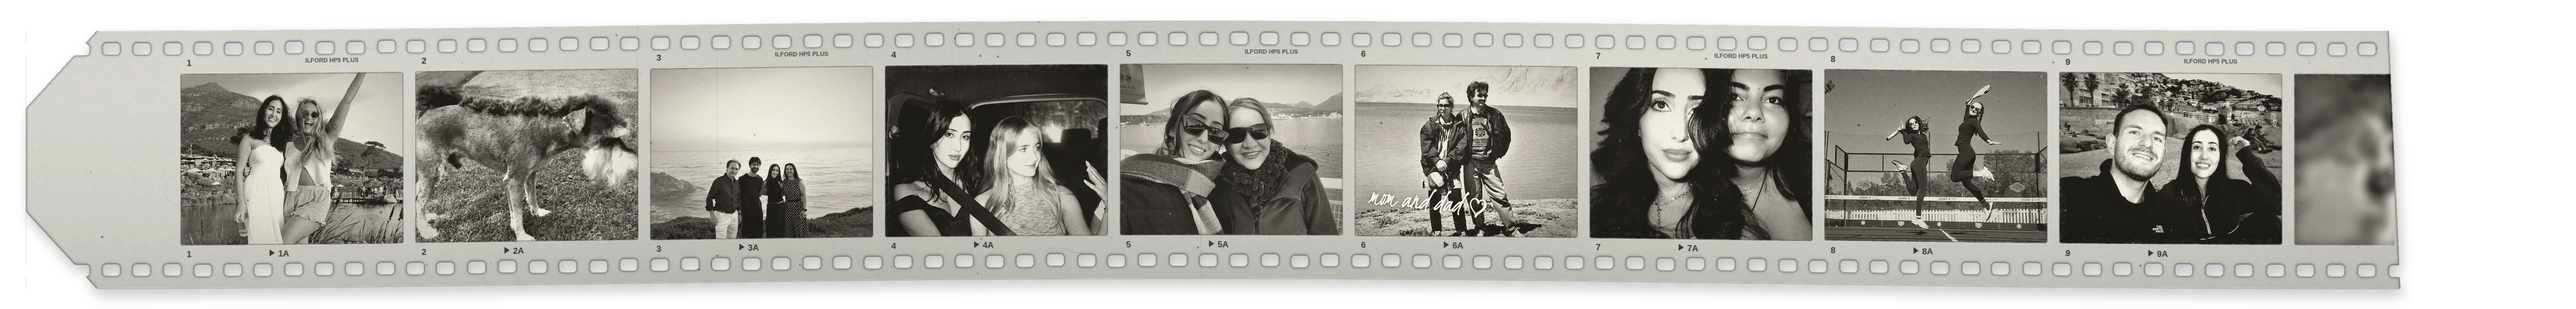
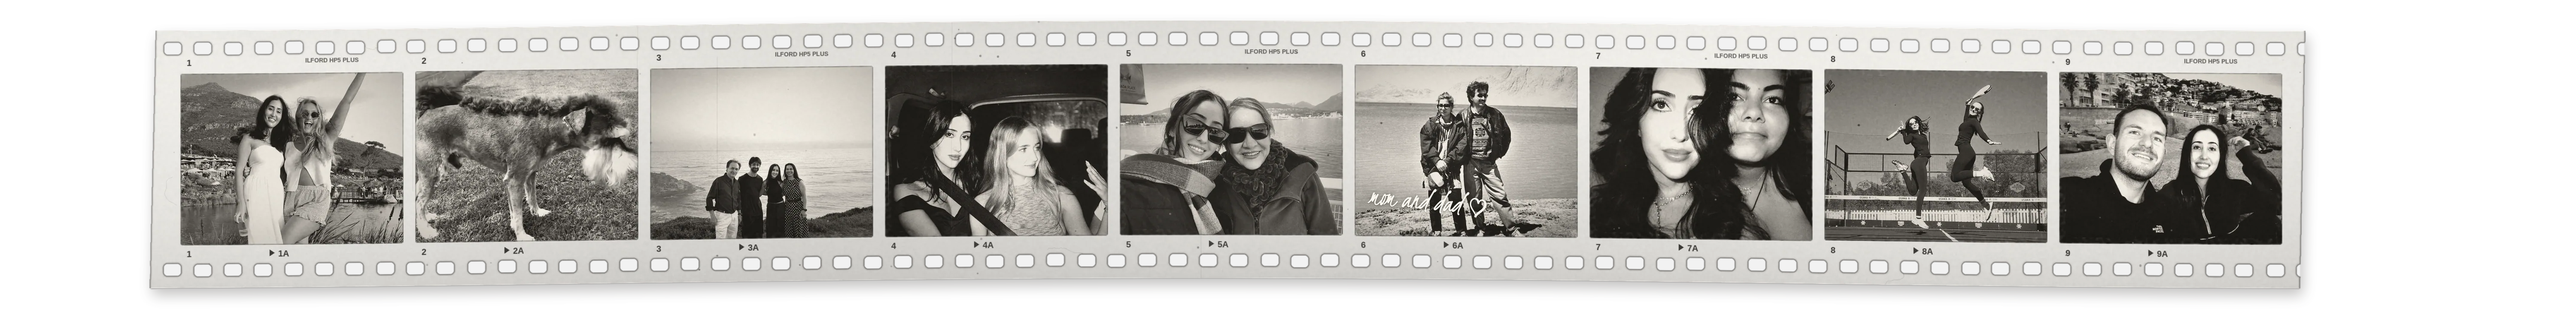
Contact sheet: straight-cut strip ends, clear gaps between strips, lighter realistic film base, white sprocket holes, smaller heading
Claude-Session: https://claude.ai/code/session_019cHY5kFv81n3dVZ9DcXyGk

diff --git a/things-i-love.html b/things-i-love.html
@@ -75,26 +75,26 @@
         <span class="fr" aria-hidden="true" style="left:79.93%;top:23.63%;width:8.67%;height:55.62%;--tilt:0.40deg"></span>
       </figure></div>
       <div class="rw"><figure class="crow" data-dir="-1"><img src="assets/img/n/sheet/row-b.webp" alt="" width="6000" height="721" decoding="async">
-        <span class="fr" aria-hidden="true" style="left:4.33%;top:22.26%;width:8.67%;height:55.62%;--tilt:-0.79deg"></span>
-        <span class="fr" aria-hidden="true" style="left:13.45%;top:21.27%;width:8.67%;height:55.62%;--tilt:-0.66deg"></span>
-        <span class="fr" aria-hidden="true" style="left:22.57%;top:20.63%;width:8.67%;height:55.62%;--tilt:-0.27deg"></span>
-        <span class="fr" aria-hidden="true" style="left:31.68%;top:20.59%;width:8.67%;height:55.62%;--tilt:0.22deg"></span>
-        <span class="fr" aria-hidden="true" style="left:40.80%;top:21.16%;width:8.67%;height:55.62%;--tilt:0.62deg"></span>
-        <span class="fr" aria-hidden="true" style="left:49.92%;top:22.14%;width:8.67%;height:55.62%;--tilt:0.79deg"></span>
-        <span class="fr" aria-hidden="true" style="left:59.03%;top:23.13%;width:8.67%;height:55.62%;--tilt:0.66deg"></span>
-        <span class="fr" aria-hidden="true" style="left:68.15%;top:23.76%;width:8.67%;height:55.62%;--tilt:0.27deg"></span>
-        <span class="fr" aria-hidden="true" style="left:77.27%;top:23.79%;width:8.67%;height:55.62%;--tilt:-0.22deg"></span>
+        <span class="fr" aria-hidden="true" style="left:5.00%;top:22.19%;width:8.67%;height:55.62%;--tilt:-0.79deg"></span>
+        <span class="fr" aria-hidden="true" style="left:14.12%;top:21.20%;width:8.67%;height:55.62%;--tilt:-0.64deg"></span>
+        <span class="fr" aria-hidden="true" style="left:23.23%;top:20.60%;width:8.67%;height:55.62%;--tilt:-0.24deg"></span>
+        <span class="fr" aria-hidden="true" style="left:32.35%;top:20.61%;width:8.67%;height:55.62%;--tilt:0.25deg"></span>
+        <span class="fr" aria-hidden="true" style="left:41.47%;top:21.23%;width:8.67%;height:55.62%;--tilt:0.65deg"></span>
+        <span class="fr" aria-hidden="true" style="left:50.58%;top:22.21%;width:8.67%;height:55.62%;--tilt:0.79deg"></span>
+        <span class="fr" aria-hidden="true" style="left:59.70%;top:23.19%;width:8.67%;height:55.62%;--tilt:0.64deg"></span>
+        <span class="fr" aria-hidden="true" style="left:68.82%;top:23.78%;width:8.67%;height:55.62%;--tilt:0.23deg"></span>
+        <span class="fr" aria-hidden="true" style="left:77.93%;top:23.77%;width:8.67%;height:55.62%;--tilt:-0.26deg"></span>
       </figure></div>
       <div class="rw"><figure class="crow" data-dir="1"><img src="assets/img/n/sheet/row-c.webp" alt="" width="6000" height="721" decoding="async">
-        <span class="fr" aria-hidden="true" style="left:11.83%;top:20.53%;width:8.67%;height:55.62%;--tilt:-0.08deg"></span>
-        <span class="fr" aria-hidden="true" style="left:20.95%;top:20.76%;width:8.67%;height:55.62%;--tilt:0.40deg"></span>
-        <span class="fr" aria-hidden="true" style="left:30.07%;top:21.53%;width:8.67%;height:55.62%;--tilt:0.73deg"></span>
-        <span class="fr" aria-hidden="true" style="left:39.18%;top:22.56%;width:8.67%;height:55.62%;--tilt:0.77deg"></span>
-        <span class="fr" aria-hidden="true" style="left:48.30%;top:23.45%;width:8.67%;height:55.62%;--tilt:0.52deg"></span>
-        <span class="fr" aria-hidden="true" style="left:57.42%;top:23.85%;width:8.67%;height:55.62%;--tilt:0.07deg"></span>
-        <span class="fr" aria-hidden="true" style="left:66.53%;top:23.62%;width:8.67%;height:55.62%;--tilt:-0.41deg"></span>
-        <span class="fr" aria-hidden="true" style="left:75.65%;top:22.84%;width:8.67%;height:55.62%;--tilt:-0.73deg"></span>
-        <span class="fr" aria-hidden="true" style="left:84.77%;top:21.81%;width:8.67%;height:55.62%;--tilt:-0.77deg"></span>
+        <span class="fr" aria-hidden="true" style="left:11.50%;top:20.54%;width:8.67%;height:55.62%;--tilt:-0.09deg"></span>
+        <span class="fr" aria-hidden="true" style="left:20.62%;top:20.74%;width:8.67%;height:55.62%;--tilt:0.39deg"></span>
+        <span class="fr" aria-hidden="true" style="left:29.73%;top:21.50%;width:8.67%;height:55.62%;--tilt:0.72deg"></span>
+        <span class="fr" aria-hidden="true" style="left:38.85%;top:22.52%;width:8.67%;height:55.62%;--tilt:0.78deg"></span>
+        <span class="fr" aria-hidden="true" style="left:47.97%;top:23.42%;width:8.67%;height:55.62%;--tilt:0.53deg"></span>
+        <span class="fr" aria-hidden="true" style="left:57.08%;top:23.85%;width:8.67%;height:55.62%;--tilt:0.09deg"></span>
+        <span class="fr" aria-hidden="true" style="left:66.20%;top:23.64%;width:8.67%;height:55.62%;--tilt:-0.39deg"></span>
+        <span class="fr" aria-hidden="true" style="left:75.32%;top:22.87%;width:8.67%;height:55.62%;--tilt:-0.72deg"></span>
+        <span class="fr" aria-hidden="true" style="left:84.43%;top:21.84%;width:8.67%;height:55.62%;--tilt:-0.78deg"></span>
       </figure></div>
     </div>
     </div>

diff --git a/assets/inner.css b/assets/inner.css
@@ -91,12 +91,12 @@ header a[aria-current]{background:none}
 .loves-list a{color:var(--red);text-decoration:underline;text-underline-offset:.22em}
 .sh{padding:6vh 6vw 7vh;border-top:1px solid var(--line);margin:0 6vw;padding-left:0;padding-right:0}
 .sh h2{font:400 clamp(2.4rem,5.6vw,6.4rem)/1 var(--serif);letter-spacing:-.025em}
-#people{--rw:min(267vw,calc(3.2*(100svh - 6.5rem)));margin:0 6vw;border-top:1px solid var(--line)}
+#people{--rw:min(267vw,calc(2.7*(100svh - 7rem)));margin:0 6vw;border-top:1px solid var(--line)}
 .pstage{margin:0 -6vw;position:relative;background:#fbfaf7;box-shadow:inset 0 16px 22px -18px rgba(40,28,12,.22),inset 0 -16px 22px -18px rgba(40,28,12,.18)}
 .slabel{position:absolute;right:6vw;top:5vh;display:flex;flex-direction:column;align-items:flex-end;gap:.3rem;color:var(--mu);z-index:1}.slabel .hw{font:400 clamp(1.5rem,2.2vw,2.3rem)/1 'Kristi',cursive;color:var(--ink);letter-spacing:0;text-transform:none;transform:rotate(-3deg)}
-.pstage .sh{margin:0 6vw;border-top:0;padding:5vh 0 3vh}
+.pstage .sh{margin:0 6vw;border-top:0;padding:5vh 0 3vh}.pstage .sh h2{font-size:clamp(2rem,3.9vw,4.3rem)}
 .csheet{padding:0 0 4vw;display:flex;flex-direction:column;overflow-x:auto;scrollbar-width:none}.csheet::-webkit-scrollbar{display:none}
-.rw{position:relative;flex:none}.rw+.rw{margin-top:calc(var(--rw)*-.03)}
+.rw{position:relative;flex:none}.rw+.rw{margin-top:calc(var(--rw)*-.0083)}
 .crow{position:relative;margin:0;width:var(--rw);transform:translate3d(var(--tx,0px),0,0) rotate(var(--r,0deg));will-change:transform;backface-visibility:hidden}
 .rw:nth-child(1) .crow{--r:-.45deg}.rw:nth-child(2) .crow{--r:.5deg}.rw:nth-child(3) .crow{--r:-.3deg}
 .crow img{display:block;width:100%;height:auto}
